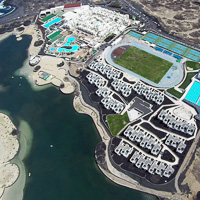
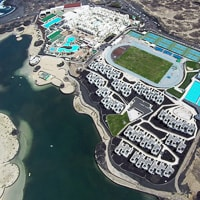
Work on improving images

diff --git a/gulpfile.js b/gulpfile.js
@@ -4,6 +4,8 @@ var gulp = require('gulp');
 // Include plugins.
 var sassLint = require('gulp-sass-lint');
 var jshint = require('gulp-jshint');
+var imagemin = require('gulp-imagemin');
+var pngcrush = require('imagemin-pngcrush');
 
 // SCSS Linting.
 gulp.task('scss-lint', function() {
@@ -18,6 +20,17 @@ gulp.task('js-lint', function() {
   return gulp.src('./js/creative.js')
     .pipe(jshint())
     .pipe(jshint.reporter('default'));
+});
+
+// Compress images.
+gulp.task('images', function () {
+  return gulp.src('./img/**/**')
+    .pipe(imagemin({
+      progressive: true,
+      svgoPlugins: [{ removeViewBox: false }],
+      use: [pngcrush()]
+    }))
+    .pipe(gulp.dest('./img/'));
 });
 
 // Default Task
